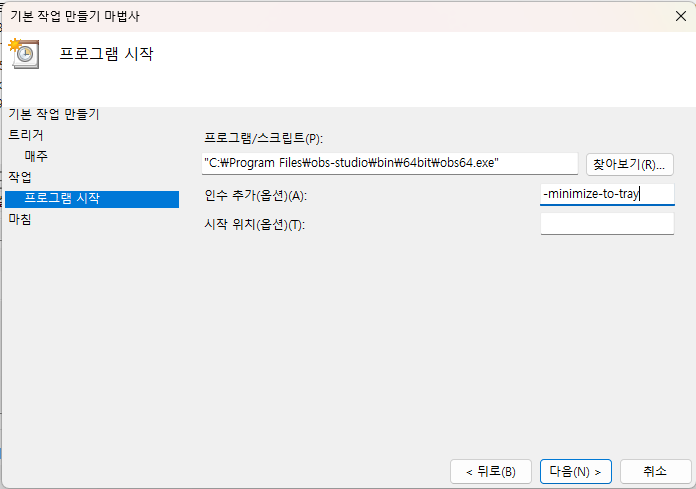
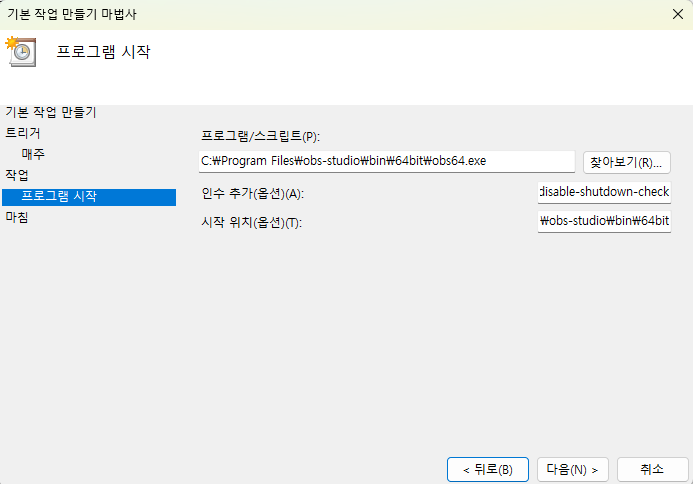
obs 내용 수정

diff --git a/index.html b/index.html
@@ -64,20 +64,20 @@
           <div>
             <div style="font-weight:700;margin-bottom:8px;">1. 멘토링 수업</div>
             <ul class="bullet-list">
-              <li>사전에 제출된 과제 검토 및 피드백 준비를 합니다.</li>
-              <li>zoom을 통한 주1회 온라인 멘토링 수업을 진행합니다.</li>
+              <li><span class="li-main">사전에 제출된 과제 검토 및 피드백 준비를 합니다.</span></li>
+              <li><span class="li-main">zoom을 통한 주1회 온라인 멘토링 수업을 진행합니다.</span></li>
             </ul>
           </div>
           <div>
             <div style="font-weight:700;margin-bottom:8px;">2. 수강생 학습 독려</div>
             <ul class="bullet-list">
-              <li>출석 및 과제 제출을 독려합니다.</li>
-              <li>과제 수행 중 궁금한 점에 대해 실무 노하우를 살려 답변합니다.</li>
+              <li><span class="li-main">출석 및 과제 제출을 독려합니다.</span></li>
+              <li><span class="li-main">과제 수행 중 궁금한 점에 대해 실무 노하우를 살려 답변합니다.</span></li>
             </ul>
           </div>
         </div>
 
-        <h3>클래스 용어</h3>
+        <h3 class="section-subheading">클래스 용어</h3>
         <div class="quality-grid">
 
           <div class="quality-card">
@@ -164,12 +164,12 @@
         <div class="step-card">
           <div class="step-body">
             <h3>STEP 1 · OBS Studio 설치</h3>
-            <div style="font-weight:700;margin-bottom:8px;font-size:13px;color:var(--text3);">Windows</div>
+            <div class="os-label" style="margin-top:0;">🖥 Windows</div>
             <ul class="bullet-list">
               <li><span class="li-main"><a href="https://obsproject.com/download" target="_blank">obsproject.com/download</a> 접속 후 Windows 버전 다운로드 및 설치</span></li>
               <li><span class="li-main">설치 중 "최적화 마법사"가 나오면 취소 (전용 커스텀 프로필을 설정할 예정입니다.)</span></li>
             </ul>
-            <div style="font-weight:700;margin:16px 0 8px;font-size:13px;color:var(--text3);">Mac</div>
+            <div class="os-label">🍎 Mac</div>
             <ul class="bullet-list">
               <li><span class="li-main"><a href="https://obsproject.com/download" target="_blank">obsproject.com/download</a> 접속 후 macOS 버전 다운로드, Applications 폴더에 드래그</span></li>
               <li><span class="li-main">첫 실행 시 아래 4가지 권한 필수 허용 (시스템 설정 &gt; 개인정보 보호 및 보안)</span>
@@ -236,8 +236,10 @@
             </ul>
             <div class="alert alert-warn">
               <span class="alert-icon">⚠</span>
-              <span>해당하시는 폴더가 없을 경우, 공유 드라이브 안에서 우클릭 &gt; 새 폴더로 직접 만들어주세요. 
-                <br>녹화본의 정상 저장을 위해, 해당 폴더는 <strong>링크가 있는 모든 사용자의 편집자(관리자) 권한</strong>으로 설정해 주세요.</span>
+              <ul class="bullet-list" style="color:inherit;">
+                <li><span class="li-main">해당하시는 폴더가 없을 경우, 공유 드라이브 안에서 우클릭 &gt; 새 폴더로 직접 만들어주세요.</span></li>
+                <li><span class="li-main">녹화본의 정상 저장을 위해, 해당 폴더는 '링크가 있는 모든 사용자'의 '편집자(관리자)' 권한으로 설정해 주세요.</span></li>
+              </ul>
             </div>
           </div>
         </div>
@@ -246,7 +248,7 @@
           <div class="step-body">
             <h3>STEP 5 · 화면 캡처 소스 추가</h3>
             <ul class="bullet-list">
-              <li><span class="li-main">OBS 하단 "소스 목록(Sources)" 패널 하단의 "+" 클릭 &gt; "화면 캡처(Display Capture)" 선택</span></li>
+              <li><span class="li-main">OBS 하단 "소스 목록(Sources)" 패널 하단의 "+" 클릭 &gt; 화면 캡처(Display Capture) 선택</span></li>
               <li><span class="li-main">디스플레이 캡처 &gt; 디스코드가 표시될 디스플레이 선택</span></li>
               <li><span class="li-main">OBS 하단 오디오 믹서에서 동작 확인</span>
                 <ul>
@@ -265,17 +267,17 @@
           </div>
         </div>
 
+        <p style="font-size:14px;color:var(--text2);margin:0 0 16px;">멘토링 시간에 맞춰 OBS가 자동으로 켜지고 녹화를 시작하도록 설정합니다. 요일마다 강의 시간이 다른 경우 각자 해당 요일로 설정하세요.</p>
+
         <div class="step-card">
           <div class="step-body">
-            <h3>STEP 6 · OBS 자동 실행·녹화 설정</h3>
-            <p style="font-size:14px;color:var(--text2);margin-bottom:16px;">멘토링 시간에 맞춰 OBS가 자동으로 켜지고 녹화를 시작하도록 설정합니다. 요일마다 강의 시간이 다른 경우 각자 해당 요일로 설정하세요.</p>
-
-            <div class="os-label" style="margin-top:0;">🖥 Windows: 작업 스케줄러</div>
+            <h3>STEP 6 · 자동 실행·녹화 설정 — Windows</h3>
+            <div class="os-label" style="margin-top:0;">🖥 작업 스케줄러</div>
 
             <div style="font-weight:700;font-size:14px;color:var(--accent2);margin-bottom:8px;">6-1. OBS 설치 경로 확인</div>
-            <ul class="bullet-list" style="margin-bottom:10px;">
+            <ul class="bullet-list" style="margin-bottom:12px;">
               <li><span class="li-main">바탕화면 또는 시작 메뉴에서 OBS 아이콘을 우클릭 &gt; '파일 위치 열기' 클릭</span></li>
-              <li><span class="li-main">열린 폴더에서 <code>obs64.exe</code>를 우클릭 &gt; '속성' &gt; '일반' 탭에서 '위치' 경로를 메모합니다</span>
+              <li><span class="li-main">열린 폴더에서 <code>obs64.exe</code> 우클릭 &gt; '속성' &gt; '일반' 탭에서 '위치' 경로를 메모합니다.</span>
                 <ul>
                   <li>일반적인 기본 경로: <code>C:\Program Files\obs-studio\bin\64bit\obs64.exe</code></li>
                 </ul>
@@ -285,29 +287,29 @@
               <img src="window_step_6-1-1.png" alt="OBS 아이콘 우클릭" class="step-img">
               <img src="window_step_6-1-2.png" alt="속성에서 위치 확인" class="step-img">
             </div>
-            <div class="alert alert-warn" style="margin-bottom:16px;">
+            <div class="alert alert-warn" style="margin:12px 0;">
               <span class="alert-icon">⚠</span>
-              <span>열린 경로가 <code>C:\ProgramData\Microsoft\Windows\Start Menu\Programs</code> 처럼 보이면, <code>obs64.exe</code>를 한 번 더 우클릭 &gt; "파일 위치 열기"를 한 번 더 실행하세요.</span>
+              <span>경로가 <code>C:\ProgramData\Microsoft\Windows\Start Menu\Programs</code> 처럼 보이면, <code>obs64.exe</code>를 한 번 더 우클릭 &gt; "파일 위치 열기"를 한 번 더 실행하세요.</span>
             </div>
 
-            <div style="font-weight:700;font-size:14px;color:var(--accent2);margin-bottom:8px;">6-2. 작업 스케줄러 열기</div>
-            <ul class="bullet-list" style="margin-bottom:10px;">
-              <li><span class="li-main"><strong>Windows 키 + S</strong>를 눌러 검색창에 '작업 스케줄러'를 입력하고 클릭합니다</span></li>
+            <div style="font-weight:700;font-size:14px;color:var(--accent2);margin:16px 0 8px;">6-2. 작업 스케줄러 열기</div>
+            <ul class="bullet-list" style="margin-bottom:12px;">
+              <li><span class="li-main"><strong>Windows 키 + S</strong>를 눌러 검색창에 '작업 스케줄러'를 입력하고 클릭합니다.</span></li>
             </ul>
             <img src="window_step_6-2-1.png" alt="작업 스케줄러 검색" class="step-img">
 
             <div style="font-weight:700;font-size:14px;color:var(--accent2);margin:16px 0 8px;">6-3. 새 작업 만들기</div>
-            <ul class="bullet-list" style="margin-bottom:10px;">
-              <li><span class="li-main">오른쪽 패널에서 <strong>"기본 작업 만들기..."</strong>를 클릭합니다</span></li>
-              <li><span class="li-main">이름 입력: 예) <strong>OBS 자동 실행</strong> → '다음' 클릭</span></li>
+            <ul class="bullet-list" style="margin-bottom:12px;">
+              <li><span class="li-main">오른쪽 패널에서 <strong>"기본 작업 만들기..."</strong>를 클릭합니다.</span></li>
+              <li><span class="li-main">이름 입력 예시: "OBS 자동 실행" → '다음' 클릭</span></li>
             </ul>
             <div class="img-row">
               <img src="window_step_6-3-1.png" alt="기본 작업 만들기" class="step-img">
               <img src="window_step_6-3-2.png" alt="이름 입력" class="step-img">
             </div>
-            <ul class="bullet-list" style="margin:10px 0;">
-              <li><span class="li-main">트리거 선택: <strong>'매주'</strong>를 선택하고 '다음' 클릭</span></li>
-              <li><span class="li-main">아래 항목을 설정합니다</span>
+            <ul class="bullet-list" style="margin:12px 0;">
+              <li><span class="li-main">트리거 선택: <strong>'매주'</strong> 선택하고 '다음' 클릭</span></li>
+              <li><span class="li-main">아래 항목을 설정합니다:</span>
                 <ul>
                   <li>시작 날짜: 오늘 날짜로 설정</li>
                   <li>실행 시간: 멘토링 수업 10분 전 (예: 멘토링 오후 9시 → 실행 시간 20:50)</li>
@@ -319,47 +321,55 @@
               <img src="window_step_6-3-3.png" alt="매주 트리거 선택" class="step-img">
               <img src="window_step_6-3-4.png" alt="날짜·시간·요일 설정" class="step-img">
             </div>
-            <ul class="bullet-list" style="margin:10px 0;">
+            <ul class="bullet-list" style="margin:12px 0;">
               <li><span class="li-main">동작 선택: <strong>'프로그램 시작'</strong>을 선택하고 '다음' 클릭</span></li>
             </ul>
             <img src="window_step_6-3-5.png" alt="동작 선택" class="step-img">
-            <ul class="bullet-list" style="margin:10px 0;">
-              <li><span class="li-main">"찾아보기"를 클릭하여 6-1에서 메모한 <code>obs64.exe</code> 경로를 선택합니다</span></li>
-              <li><span class="li-main">'인수 추가(선택)' 칸에 아래를 입력합니다 (자동 녹화 시작 + 트레이 최소화):</span></li>
+            <ul class="bullet-list" style="margin:12px 0;">
+              <li><span class="li-main">"찾아보기"를 클릭하여 6-1 단계에서 메모한 <code>obs64.exe</code> 경로를 선택합니다.</span></li>
+              <li><span class="li-main">'인수 추가(선택)' 칸에 아래를 입력합니다(자동 녹화 시작 + 트레이 최소화):</span></li>
             </ul>
-            <div class="code-block">--startrecording --minimize-to-tray</div>
-            <ul class="bullet-list" style="margin:10px 0;">
+            <div class="code-block">--disable-shutdown-check</div>
+            <ul class="bullet-list" style="margin:12px 0;">
               <li><span class="li-main">'시작 위치(옵션)' 칸에 아래를 입력합니다:</span></li>
             </ul>
             <div class="code-block">C:\Program Files\obs-studio\bin\64bit</div>
-            <ul class="bullet-list" style="margin:10px 0;">
+            <ul class="bullet-list" style="margin:12px 0;">
               <li><span class="li-main">'마침'을 클릭하면 완료됩니다.</span></li>
             </ul>
             <img src="window_step_6-3-6.png" alt="경로·인수 입력 후 마침" class="step-img">
-            <div class="alert alert-warn" style="margin-bottom:4px;">
+            <div class="alert alert-warn" style="margin-top:12px;">
               <span class="alert-icon">⚠</span>
-              <span>PC가 잠금 상태이거나 절전 모드이면 자동 실행이 되지 않을 수 있습니다. 멘토링 전날 PC 전원이 켜진 상태로 유지해 주세요.</span>
+              <span>PC가 잠금 상태이거나 절전 모드이면 자동 실행이 되지 않을 수 있습니다.<br>멘토링 전날 PC 전원이 켜진 상태로 유지해 주세요.</span>
             </div>
+          </div>
+        </div>
 
-            <div class="os-label" style="margin-top:28px;">🍎 macOS: crontab</div>
+        <div class="step-card">
+          <div class="step-body">
+            <h3>STEP 6 · 자동 실행·녹화 설정 — macOS</h3>
+            <div class="os-label" style="margin-top:0;">🍎 crontab</div>
 
             <div style="font-weight:700;font-size:14px;color:var(--accent2);margin-bottom:8px;">6-1. 터미널 열기</div>
             <ul class="bullet-list" style="margin-bottom:12px;">
-              <li><span class="li-main"><strong>Command(⌘) + Space</strong>로 Spotlight를 열고, '터미널' 입력 후 Enter를 누릅니다</span></li>
+              <li><span class="li-main">Command(⌘) + Space로 Spotlight를 열고, '터미널' 입력 후 Enter를 누릅니다.</span></li>
             </ul>
 
-            <div style="font-weight:700;font-size:14px;color:var(--accent2);margin-bottom:8px;">6-2. crontab 설정</div>
-            <ul class="bullet-list" style="margin-bottom:8px;">
+            <div style="font-weight:700;font-size:14px;color:var(--accent2);margin:16px 0 8px;">6-2. crontab 설정</div>
+            <ul class="bullet-list" style="margin-bottom:12px;">
               <li><span class="li-main">터미널에 아래 명령어를 입력하고 Enter를 누릅니다:</span></li>
             </ul>
             <div class="code-block">crontab -e</div>
-            <img src="mac_step_6-2-1.png" alt="crontab -e 입력" class="step-img" style="margin-bottom:0;">
-            <ul class="bullet-list" style="margin:10px 0;">
-              <li><span class="li-main"><strong>i</strong>를 눌러 입력 모드(INSERT)로 전환 후, 아래 형식으로 입력합니다:</span></li>
+            <img src="mac_step_6-2-1.png" alt="crontab -e 입력" class="step-img">
+            <ul class="bullet-list" style="margin:12px 0;">
+              <li><span class="li-main"><strong>i</strong>를 눌러 입력 모드(INSERT)로 전환 후, 아래 형식으로 입력합니다:</span>
+                <ul>
+                  <li>50=분, 20=시간(오후 8시), 1=요일(월1, 화2, 토6, 일7)</li>
+                </ul>
+              </li>
             </ul>
             <div class="code-block">50 20 * * 1 open -a OBS --args --startrecording</div>
-            <p style="font-size:12px;color:var(--text3);margin:4px 0 10px;">입력값 의미: 50=분, 20=시간(오후 8시), 1=요일 (월1, 화2, 수3, 목4, 금5)</p>
-            <ul class="bullet-list" style="margin:10px 0;">
+            <ul class="bullet-list" style="margin:12px 0;">
               <li><span class="li-main"><strong>Esc</strong>를 누르고 <code>:wq</code>를 입력한 후 Enter를 누릅니다(저장 후 종료).</span></li>
             </ul>
             <div class="img-row">
@@ -368,11 +378,11 @@
             </div>
 
             <div style="font-weight:700;font-size:14px;color:var(--accent2);margin:16px 0 8px;">6-3. 권한 허용</div>
-            <ul class="bullet-list" style="margin-bottom:10px;">
+            <ul class="bullet-list" style="margin-bottom:12px;">
               <li><span class="li-main">시스템 설정 &gt; 개인정보 보호 및 보안 &gt; '자동화' 항목에서 터미널이 OBS를 제어하도록 허용합니다.</span></li>
             </ul>
             <img src="mac_step_6-3.png" alt="자동화 권한 허용" class="step-img">
-            <div class="alert alert-warn">
+            <div class="alert alert-warn" style="margin-top:12px;">
               <span class="alert-icon">⚠</span>
               <span>맥이 잠금 상태나 절전 모드이면 crontab이 실행되지 않을 수 있습니다.<br>시스템 설정 &gt; 배터리에서 '자동으로 잠자기' 시간을 멘토링 시간 이후로 조정해 주세요.</span>
             </div>
@@ -397,7 +407,7 @@
               <li><span class="li-main">터미널에서 <code>crontab -e</code> 입력 후 <strong>i</strong>로 입력 모드 전환</span></li>
               <li><span class="li-main">OBS 관련 줄 처리</span>
                 <ul>
-                  <li>1. 일시 중지: 줄 맨 앞에 "#" 추가<br>(예) <code># 50 20 * * 1 open -a OBS --args --startrecording</code></li>
+                  <li>1. 일시 중지: 줄 맨 앞에 "#" 추가<br><code># 50 20 * * 1 open -a OBS --args --startrecording</code></li>
                   <li>2. 완전 삭제: 해당 줄 전체 삭제</li>
                 </ul>
               </li>
@@ -415,7 +425,7 @@
             <h3>녹화 방법 (세팅 완료 후)</h3>
             <div class="alert alert-info" style="margin-bottom:16px;">
               <span class="alert-icon">💡</span>
-              <span>STEP 6 자동 실행 설정을 완료하셨다면, <strong>멘토링 시작 시간에 OBS가 자동으로 켜지고 녹화가 자동으로 시작됩니다.</strong> OBS 하단의 녹화 카운터를 확인해 주세요.</span>
+              <span>STEP 6 자동 실행 설정을 완료하셨다면, <strong>멘토링 시작 시간에 OBS가 자동으로 켜지고 녹화가 자동으로 시작됩니다.<br></strong> OBS 하단의 녹화 카운터를 확인해 주세요.</span>
             </div>
             <ul class="bullet-list">
               <li><span class="li-main">멘토링 종료 후 '녹화 중단' 버튼 또는 F9 키(Mac: fn + F9)를 눌러 녹화를 종료합니다.</span></li>
@@ -423,7 +433,7 @@
             </ul>
             <div class="alert alert-warn" style="margin-top:16px;">
               <span class="alert-icon">⚠</span>
-              <span>업로드 완료 전에 PC를 종료하면 업로드가 중단될 수 있습니다. Google Drive 앱이 백그라운드에서 자동 업로드하므로 PC를 사용하면서 기다리셔도 됩니다.</span>
+              <span>업로드 완료 전에 PC를 종료하면 업로드가 중단될 수 있습니다.<br>Google Drive 앱이 백그라운드에서 자동 업로드하므로 PC를 사용하면서 기다리셔도 됩니다.</span>
             </div>
           </div>
         </div>
